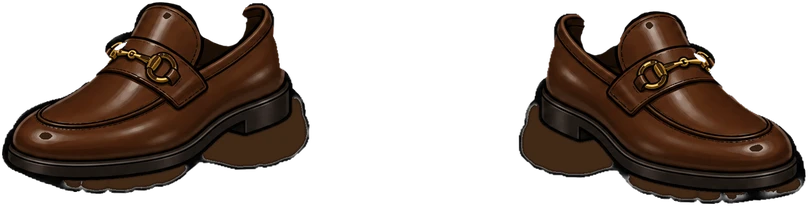
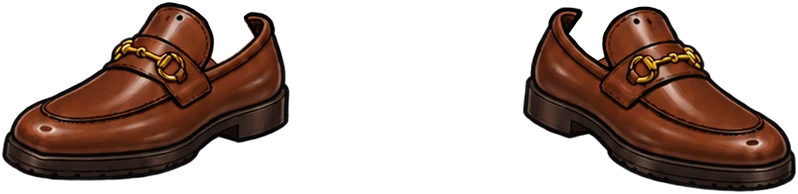
Вадим's loafers redrawn by the artist; the hand's tattoos also on a hand that holds something (cut to its outline, turning with it)
Claude-Session: https://claude.ai/code/session_01E3jaUxUo8xTQNwyakAWMq3

diff --git a/src/client/art/rig.tsx b/src/client/art/rig.tsx
@@ -467,6 +467,11 @@ function HandFrames() {
           </g>
         )}
         <image href={`${base}.webp?v=${ART_VER.heroPart}`} x={f.x} y={f.y} width={f.w} height={f.h} preserveAspectRatio="none" />
+        {/* the hand's tattoos over the hand that holds it, cut to that hand's outline: they turn with it */}
+        <mask id={`rig-held-${heldId}`} maskUnits="userSpaceOnUse" x={0} y={0} width={1000} height={1400} style={{ maskType: "alpha" }}>
+          <image href={`${base}.webp?v=${ART_VER.heroPart}`} x={f.x} y={f.y} width={f.w} height={f.h} preserveAspectRatio="none" />
+        </mask>
+        <g mask={`url(#rig-held-${heldId})`}><Ink part="handR" /></g>
       </g>
     );
   }

diff --git a/src/client/preload.ts b/src/client/preload.ts
@@ -9,7 +9,7 @@ import { ASSET_FILES } from "./asset-manifest.ts";
 import { ROOM_BACKDROP, ROOM_BG } from "../content/home-scene.ts";
 
 /** cache-busting versions of redrawn art (bump when the picture changes) */
-export const ART_VER = { heroPart: 12, hair: 8, wear: 26, items: 29, pepe: 2, tattoo: 15, monitor: 2, chair: 5, shop: 3 } as const;
+export const ART_VER = { heroPart: 12, hair: 8, wear: 27, items: 30, pepe: 2, tattoo: 15, monitor: 2, chair: 5, shop: 3 } as const;
 
 /** the URL a screen really requests for a file from the manifest */
 export function usedUrl(path: string): string {

diff --git a/src/client/art/rig-look.ts b/src/client/art/rig-look.ts
@@ -316,10 +316,10 @@ export const WEAR_FIT = {
   },
   "shoes-vadim": {
     "slot": "SHOES",
-    "x": 88.5,
-    "y": 1136.0,
-    "w": 808,
-    "h": 206
+    "x": 94.0,
+    "y": 1148.0,
+    "w": 798,
+    "h": 194
   },
   "tie-vadim": {
     "slot": "ACCESSORY",
